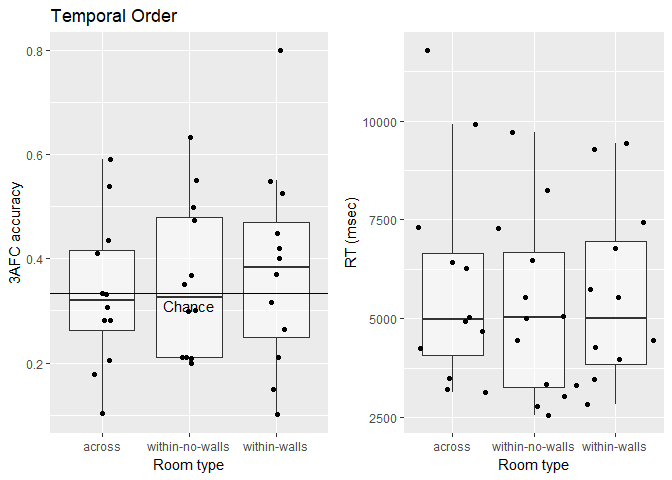
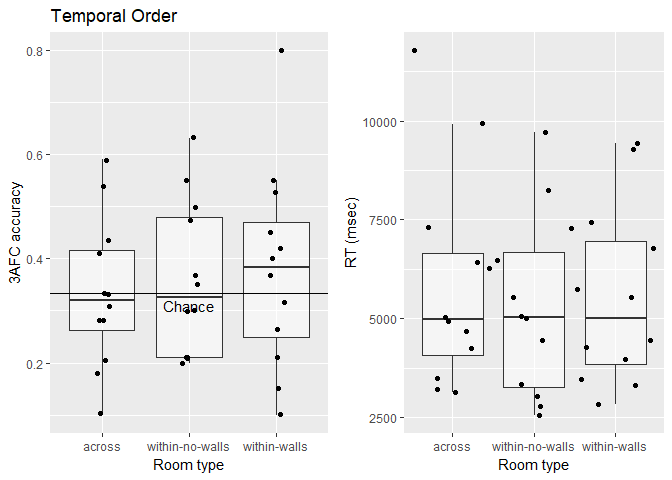
Adding additional analysis: Is there bias towards 1 foil? Do participants differ if they expect memory test?

diff --git a/analysis/memoryTask.md b/analysis/memoryTask.md
@@ -317,3 +317,70 @@ ezANOVA(temporalOrder_agg_sub2, dv = acc, wid = id, within = context)
     ## $`Sphericity Corrections`
     ##    Effect       GGe     p[GG] p[GG]<.05       HFe     p[HF] p[HF]<.05
     ## 2 context 0.7824681 0.7138664           0.9018485 0.7445744
+
+Additional analysis after rabble
+================================
+
+During rabble, we came up with two additional analyses to figure out why our performance is so low.
+
+Is there a bias towards one foil?
+---------------------------------
+
+In the first step, I need to add the respective information from the [R-script](https://github.com/JAQuent/boundaryVR/blob/master/onlineExperiment/r_supportFiles/createTrials.R) that creates the trial information.
+
+``` r
+temporalOrder_comb_incorrect <- subset(temporalOrder_comb, temporalOrder_comb$accuracy == 0)
+temporalOrder_foils <- ddply(temporalOrder_comb_incorrect, c('id'), 
+                             summarise,
+                             n   = length(choice),
+                             foil1 = table(choice)[1],
+                             foil2 = table(choice)[2])
+
+# Create percentages
+temporalOrder_foils$foil1 <- temporalOrder_foils$foil1 / temporalOrder_foils$n
+temporalOrder_foils$foil2 <- temporalOrder_foils$foil2 / temporalOrder_foils$n
+
+# Melt for plotting
+temporalOrder_foils <- melt(temporalOrder_foils, id.vars =c("id"), measure.vars = c('foil1', 'foil2'))
+
+# Plot
+ggplot(temporalOrder_foils, aes(x = variable, y = value)) + 
+  geom_boxplot(alpha = 0.5,outlier.shape = NA) + 
+  geom_jitter(width = 0.1) +
+  labs(y = 'Percentage of choice', x = '', title = 'Foil choice')
+```
+
+![](memoryTask_files/figure-markdown_github/unnamed-chunk-16-1.png)
+
+Foil 1 is behind the target and foil 2 is after the target. However, there is nearly no difference between the times foil 1 is choosen over foil 2 and vice versa.
+
+Analysis of participants that expected a memory test
+----------------------------------------------------
+
+Because I didn't save a participant ID for all output, I need to manually assign the results of the memory task to the debrief questionnaire data by renaming the filenames.
+
+``` r
+# Get participants that expected memory task
+expectedTest <- debriefData$SubNum[debriefData$id == 'memory1'] 
+expectedTest <- expectedTest[debriefData$answerValue[debriefData$id == 'memory1'] != 'expNone']
+
+# Create subset
+temporalOrder_agg_sub <- temporalOrder_agg[temporalOrder_agg$id %in% expectedTest, ]
+
+afcPlot <- ggplot(temporalOrder_agg_sub, aes(x = context, y = acc)) + 
+  geom_boxplot(alpha = 0.5,outlier.shape = NA) + 
+  geom_jitter(width = 0.1) +
+  geom_hline(yintercept = 1/3) +
+  annotate('text', x = 2, y = 0.31, label = 'Chance') +
+  labs(y = '3AFC accuracy', x = "Room type", title = 'Temporal Order')
+
+
+rtPlot <- ggplot(temporalOrder_agg_sub, aes(x = context, y = rt)) + 
+  geom_boxplot(alpha = 0.5, outlier.shape = NA) + 
+  geom_jitter(width = 0.5) +
+  labs(y = 'RT (msec)', x = "Room type", title = '')
+
+plot_grid(afcPlot, rtPlot)
+```
+
+![](memoryTask_files/figure-markdown_github/unnamed-chunk-17-1.png)
